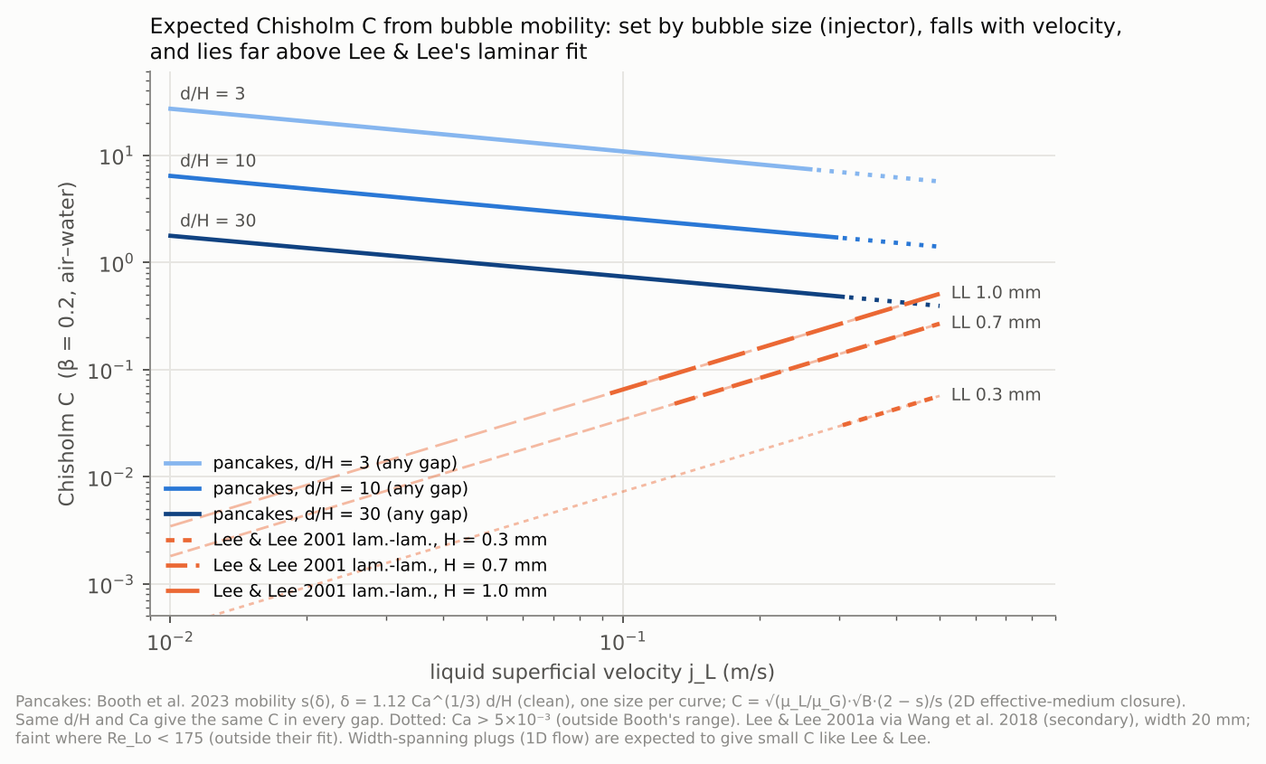
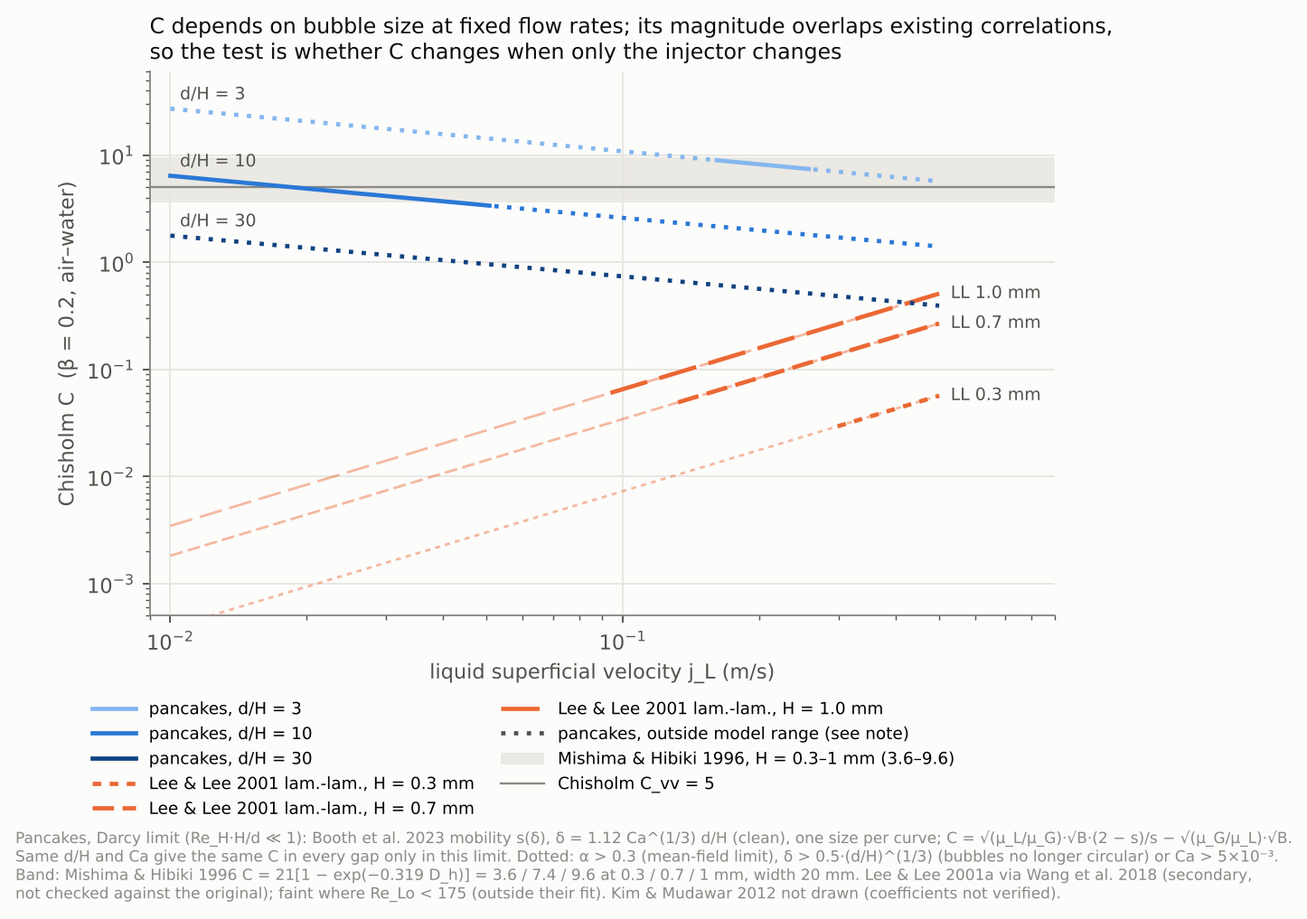
docs: 독립 검토 2 반영 마무리 — 그림 r7(적용 범위 밖 점선, Mishima–Hibiki·C_vv 띠, 제목), 초록 초안 8항목, README 핵심 결과, I54·설계 표·기록 정정
Claude-Session: https://claude.ai/code/session_01QFVWo3BPZ98Eh7jXYmYxkN

diff --git a/docs/research/fig/src/fig_c_mobility.py b/docs/research/fig/src/fig_c_mobility.py
@@ -5,6 +5,10 @@
 - 기체 보존 α = B/(B + s), U_m = j_L/(1 − α). E = B(2 − s)/s, C = √(μ_L/μ_G)·√B·(2 − s)/s − √(μ_G/μ_L)·√B.
 - Lee & Lee 2001a 층류-층류: C = 6.833e-8·λ^−1.317·ψ^0.719·Re_Lo^0.557, λ = μ²/(ρσD_h), ψ = μj_L/σ
   (Wang 외 2018 JATSR 표 1의 2차 인용. ψ의 j는 액체 겉보기 속도로 가정). 폭 20 mm 가정.
+- 독립 검토 2(review_2.md 5·6번) 반영: 점선 = 적용 범위 밖(α > 0.3 평균장 한계, δ > 0.5·(d/H)^(1/3) 원형 조건, Ca > 5×10⁻³).
+  D_h만 쓰는 상관식(Mishima & Hibiki 1996 C = 21[1 − exp(−0.319·D_h[mm])], 고전 C_vv = 5)을 띠로 함께 그린다
+  → C의 크기는 기존 상관식과 같은 자릿수라 판별력이 없고, 판별은 "같은 유량에서 크기를 바꾸면 C가 바뀌나"(I54)다.
+  Kim & Mudawar 2012는 원문 계수를 확인하지 못해 넣지 않았다.
 """
 import numpy as np
 import matplotlib
@@ -13,6 +17,7 @@ import matplotlib.pyplot as plt
 
 RAMP = {3: "#86b6ef", 10: "#2a78d6", 30: "#104281"}
 REF = "#eb6834"
+BAND = "#ebe9e3"
 INK, INK2, MUTED, GRID, SURF = "#0b0b0b", "#52514e", "#8a8986", "#e6e5e1", "#fcfcfb"
 plt.rcParams.update({"font.family": "DejaVu Sans", "font.size": 9.5, "axes.edgecolor": MUTED,
                      "axes.labelcolor": INK2, "xtick.color": INK2, "ytick.color": INK2,
@@ -39,9 +44,15 @@ def c_mobility(jl, dh_ratio):
     for _ in range(100):
         alpha = B / (B + s)
         ca = MU * jl / (1 - alpha) / SIG
-        s = booth_s(1.12 * ca ** (1 / 3) * dh_ratio)
+        delta = 1.12 * ca ** (1 / 3) * dh_ratio
+        s = booth_s(delta)
     c = np.sqrt(MU / MUG) * np.sqrt(B) * (2 - s) / s - np.sqrt(MUG / MU) * np.sqrt(B)
-    return c, ca
+    return c, ca, alpha, delta
+
+
+def c_mishima(h):
+    dh_mm = 2 * h * W / (h + W) * 1e3
+    return 21 * (1 - np.exp(-0.319 * dh_mm))
 
 
 def c_leelee(jl, h):
@@ -52,37 +63,51 @@ def c_leelee(jl, h):
     return 6.833e-8 * lam ** -1.317 * psi ** 0.719 * re ** 0.557, re
 
 
-jl = np.logspace(-2, np.log10(0.5), 120)
+jl = np.logspace(-2, np.log10(0.5), 160)
 fig, ax = plt.subplots(figsize=(7.6, 4.6))
+mh = [c_mishima(h) for h in (0.3e-3, 0.7e-3, 1.0e-3)]
+ax.axhspan(min(mh), max(mh), color=BAND, lw=0, zorder=0)
+ax.axhline(5.0, color=MUTED, lw=1, zorder=1)
 for dh_ratio, col in RAMP.items():
-    cc, ca = np.array([c_mobility(j, dh_ratio) for j in jl]).T
-    ok = ca <= 5e-3
-    ax.plot(jl[ok], cc[ok], color=col, lw=2, label=f"pancakes, d/H = {dh_ratio} (any gap)")
-    ax.plot(jl[~ok], cc[~ok], color=col, lw=2, ls=(0, (1, 2)))
+    cc, ca, al, de = np.array([c_mobility(j, dh_ratio) for j in jl]).T
+    ok = (ca <= 5e-3) & (al <= 0.3) & (de <= 0.5 * dh_ratio ** (1 / 3))
+    ax.plot(jl, np.where(ok, cc, np.nan), color=col, lw=2, label=f"pancakes, d/H = {dh_ratio}", zorder=3)
+    ax.plot(jl, np.where(ok, np.nan, cc), color=col, lw=2, ls=(0, (1, 2)), zorder=3)
     ax.text(0.0105, cc[0] * 1.12, f"d/H = {dh_ratio}", color=INK2, fontsize=8, va="bottom")
 for h, dash in ((0.3e-3, (0, (2, 2))), (0.7e-3, (0, (5, 2))), (1.0e-3, (0, (9, 3)))):
     cl, re = np.array([c_leelee(j, h) for j in jl]).T
     inside = re >= 175
-    ax.plot(jl, cl, color=REF, lw=1.2, ls=dash, alpha=0.45)
+    ax.plot(jl, cl, color=REF, lw=1.2, ls=dash, alpha=0.45, zorder=2)
     if inside.any():
-        ax.plot(jl[inside], cl[inside], color=REF, lw=2, ls=dash,
+        ax.plot(jl[inside], cl[inside], color=REF, lw=2, ls=dash, zorder=2,
                 label=f"Lee & Lee 2001 lam.-lam., H = {h * 1e3:.1f} mm")
     ax.text(jl[-1] * 1.06, cl[-1], f"LL {h * 1e3:.1f} mm", color=INK2, fontsize=8, va="center")
+ax.plot([], [], color=INK2, lw=2, ls=(0, (1, 2)), label="pancakes, outside model range (see note)")
+ax.fill_between([], [], color=BAND, lw=0, label=f"Mishima & Hibiki 1996, H = 0.3–1 mm ({min(mh):.1f}–{max(mh):.1f})")
+ax.plot([], [], color=MUTED, lw=1, label="Chisholm C_vv = 5")
 ax.set_xscale("log"); ax.set_yscale("log")
 ax.set_xlim(0.009, 0.9); ax.set_ylim(5e-4, 60)
 ax.grid(color=GRID, lw=0.8); ax.set_axisbelow(True)
 ax.set_xlabel("liquid superficial velocity j_L (m/s)")
 ax.set_ylabel("Chisholm C  (β = 0.2, air–water)")
-ax.legend(frameon=False, fontsize=8, loc="lower left")
-ax.set_title("Expected Chisholm C from bubble mobility: set by bubble size (injector), falls with velocity,\n"
-             "and lies far above Lee & Lee's laminar fit", fontsize=10, color=INK, loc="left")
-fig.text(0.01, -0.07, "Pancakes: Booth et al. 2023 mobility s(δ), δ = 1.12 Ca^(1/3) d/H (clean), one size per curve; "
-         "C = √(μ_L/μ_G)·√B·(2 − s)/s (2D effective-medium closure).\n"
-         "Same d/H and Ca give the same C in every gap. Dotted: Ca > 5×10⁻³ (outside Booth's range). "
-         "Lee & Lee 2001a via Wang et al. 2018 (secondary), width 20 mm;\nfaint where Re_Lo < 175 (outside their fit). "
-         "Width-spanning plugs (1D flow) are expected to give small C like Lee & Lee.", fontsize=7.2, color=MUTED)
+ax.legend(frameon=False, fontsize=7.8, loc="upper left", bbox_to_anchor=(-0.08, -0.13), ncol=2,
+          columnspacing=1.6, handlelength=2.6)
+ax.set_title("C depends on bubble size at fixed flow rates; its magnitude overlaps existing correlations,\n"
+             "so the test is whether C changes when only the injector changes", fontsize=10, color=INK, loc="left")
+fig.text(0.01, -0.29,
+         "Pancakes, Darcy limit (Re_H·H/d ≪ 1): Booth et al. 2023 mobility s(δ), δ = 1.12 Ca^(1/3) d/H (clean), one size per curve; "
+         "C = √(μ_L/μ_G)·√B·(2 − s)/s − √(μ_G/μ_L)·√B.\n"
+         "Same d/H and Ca give the same C in every gap only in this limit. Dotted: α > 0.3 (mean-field limit), δ > 0.5·(d/H)^(1/3) "
+         "(bubbles no longer circular) or Ca > 5×10⁻³.\n"
+         f"Band: Mishima & Hibiki 1996 C = 21[1 − exp(−0.319 D_h)] = {mh[0]:.1f} / {mh[1]:.1f} / {mh[2]:.1f} at 0.3 / 0.7 / 1 mm, width 20 mm. "
+         "Lee & Lee 2001a via Wang et al. 2018 (secondary,\nnot checked against the original); faint where Re_Lo < 175 (outside their fit). "
+         "Kim & Mudawar 2012 not drawn (coefficients not verified).", fontsize=7.2, color=MUTED)
 fig.savefig("/home/user/bubbles/docs/research/fig/fig_r7_chisholm_c_mobility.png", dpi=170, bbox_inches="tight")
 plt.close(fig)
 for h in (0.3e-3, 1e-3):
     for j in (0.02, 0.05, 0.1, 0.2):
-        print(f"H {h*1e3:.1f} jl {j}: " + ", ".join(f"d/H {d}: C {c_mobility(j, d)[0]:.2f}" for d in RAMP) + f", LeeLee {c_leelee(j, h)[0]:.3f}")
+        print(f"H {h*1e3:.1f} jl {j}: " + ", ".join(
+            "d/H {}: C {:.2f} a {:.2f} d/lim {:.2f}".format(d, *[v for k, v in enumerate(c_mobility(j, d)) if k in (0, 2)],
+                                                       c_mobility(j, d)[3] / d ** (1 / 3))
+            for d in RAMP) + f", LeeLee {c_leelee(j, h)[0]:.3f}")
+print("Mishima-Hibiki", [round(v, 2) for v in mh])

diff --git a/docs/research/abstract_drafts.md b/docs/research/abstract_drafts.md
@@ -1,44 +1,47 @@
 # 논문 초록 초안 (2026-10-24, 실험 전 가안)
 
 > 목적: 신규성 주장이 논문에서 어떻게 읽힐지 미리 본다. 숫자는 실험 뒤에 채울 빈칸([…])이다. 결과 문장은 모두 **예상**이며, 실험이 반대로 나오면 설계 12장의 시나리오 표대로 고쳐 쓴다.
-> 근거: 보고서 ①·④, 추정 5.4·5.5절, 설계 1·3·16·17·18장, 아이디어 I53·I54·I57·I58·I59·I61.
+> 근거: 보고서 ①·④, 추정 5.4·5.5절, 설계 1·3·16·17·18장, 아이디어 I53·I54·I57·I58·I59·I61·I65.
+> 2026-10-24 독립 검토 2(`review_2.md` 9·11번) 반영: "보인다" → "시험한다", 기본식은 2α/(1 − α) − B, 세 추정은 서로 독립이 아님, C 꼴은 폐합의 대수적 귀결(Chisholm 1967 선례), 3·7 mm는 "어디서 어떻게 깨지는지 그린다", 논문 2에 온도 조건과 Stefan 인자, 첫 문장의 근거 없는 주장 삭제.
 
 ## 논문 1 (단열): 영상 운동학으로 압력 강하를 맞춤 없이 예측
 
 **제목 후보**: Pressure drop of confined bubbly flow in narrow gaps predicted from imaged bubble kinematics without fitted coefficients
 
 **초록 (영문 초안)**
-Two-phase pressure-drop correlations for narrow rectangular channels fit a Chisholm-type parameter to flow rates and geometry, and their coefficients rarely transfer between facilities. We show that in the pancake-bubble regime the bubble-induced increase of the pressure drop follows from two kinematic quantities alone: the imaged area void fraction α and the gas-to-liquid flow ratio B. Treating gap-spanning bubbles as two-dimensional inclusions in Darcy flow gives φ_L² − 1 = B(2 − s̄)/s̄, where s̄ = B(1 − α)/α is the mean bubble mobility. The closure contains no bubble size, friction law, or fitted constant. We test it in horizontal channels with gaps of 0.3, 0.7 and 1 mm using deep-learning detection and tracking of [N] bubbles, together with differential pressure. Three independent estimates of s̄ — from the pressure transient after switching the gas on, from the imaged void fraction, and from tracked bubble velocities — agree within [X]% for Ca < [..] and Re_H·H/d < [..]. Changing only the injector changes the pressure drop at fixed flow rates by [X]%, yet all points fall on the same closure line, whereas a flow-rate-based Chisholm parameter would predict no change. The fitted Chisholm parameter therefore reflects bubble mobility, C ≈ (μ_L/μ_G)^{1/2} B^{1/2} (2 − s̄)/s̄. At 3 and 7 mm the closure fails in the way predicted by buoyancy (half-gap Bond number), which we map with the same imaging pipeline.
+Two-phase pressure-drop correlations for narrow rectangular channels fit a Chisholm-type parameter C to flow rates and geometry, so they carry no explicit information on bubble size or shape. We test whether, in the pancake-bubble regime, the bubble-induced increase of the pressure drop follows from two kinematic quantities alone: the imaged void fraction α and the gas-to-liquid flow ratio B. Treating gap-spanning, near-circular bubbles as two-dimensional inclusions in Darcy flow gives, for α ≲ 0.3, φ_L² − 1 = 2α/(1 − α) − B, equivalently B(2 − s̄)/s̄ with the mean bubble mobility s̄ = B(1 − α)/α. The closure contains no friction law or fitted constant; bubble size enters only through a geometric rim correction of order H/d. We test it in horizontal channels with gaps of 0.3, 0.7 and 1 mm using deep-learning detection and tracking of [N] bubbles, together with differential pressure. The void fraction implied by the pressure transient after switching the gas on agrees with the imaged one within [X]% (a test of the closure), and the gas flux carried by tracked bubbles agrees with the metered flow within [X]% (a test of gas conservation), for Ca < [..] and Re_H·H/d < [..]. Changing only the injector changes the pressure drop at fixed flow rates by [X]%, and we test whether all points remain on the same closure line; a flow-rate-based correlation has no term for this change. In Lockhart–Martinelli form the closure implies C = (μ_L/μ_G)^{1/2}B^{1/2}(2 − s̄)/s̄ − (μ_G/μ_L)^{1/2}B^{1/2}, a Hele-Shaw counterpart of the slip dependence in Chisholm's separated-flow theory, and one candidate reason why fitted C differs between facilities. At 3 and 7 mm, where bubbles no longer span the gap and inertia matters (Re_H·H/d up to about 10³), we map where and how the closure fails with the same imaging pipeline.
 
 **초록 (한국어)**
-좁은 직사각 유로의 이상류 압력 강하 상관식은 Chisholm 계수를 유량과 형상에 맞추며, 그 계수는 장치가 바뀌면 잘 맞지 않는다. 우리는 팬케이크 기포 영역에서 기포에 의한 압력 강하 증가분이 영상 기공률 α와 기체/액체 유량비 B 두 가지 운동학 양만으로 정해짐을 보인다. 갭을 채운 기포를 Darcy 흐름 속 2차원 포함물로 보면 φ_L² − 1 = B(2 − s̄)/s̄이고, s̄ = B(1 − α)/α는 평균 기포 이동도다. 이 식에는 기포 크기, 마찰 법칙, 맞춘 상수가 없다. 0.3·0.7·1 mm 수평 유로에서 딥러닝 검출·추적([N]개 기포)과 차압으로 시험한다. 평균 이동도를 세 가지(기체를 켤 때의 압력 과도, 영상 기공률, 추적 속도)로 재면 Ca < [..], Re_H·H/d < [..]에서 [X]% 안에서 일치한다. 주입기만 바꾸면 같은 유량에서 압력 강하가 [X]% 달라지지만 모든 점이 같은 폐합 선에 놓인다. 유량만 쓰는 Chisholm 계수는 이 차이를 예측하지 못한다. 그래서 맞춘 Chisholm 계수는 기포 이동도를 반영한다: C ≈ (μ_L/μ_G)^{1/2} B^{1/2} (2 − s̄)/s̄. 3·7 mm에서는 부력(반높이 Bond 수)이 예측하는 방식으로 폐합이 깨지며, 같은 영상 처리로 그 경계를 그린다.
+좁은 직사각 유로의 이상류 압력 강하 상관식은 Chisholm 계수 C를 유량과 형상에 맞추므로, 기포 크기나 모양에 대한 정보를 직접 담지 않는다. 우리는 팬케이크 기포 영역에서 기포에 의한 압력 강하 증가분이 영상 기공률 α와 기체/액체 유량비 B 두 가지 운동학 양만으로 정해지는지 시험한다. 갭을 채운 원에 가까운 기포를 Darcy 흐름 속 2차원 포함물로 보면 α ≲ 0.3에서 φ_L² − 1 = 2α/(1 − α) − B이고, 같은 식을 평균 기포 이동도 s̄ = B(1 − α)/α로 쓰면 B(2 − s̄)/s̄다. 이 식에는 마찰 법칙과 맞춘 상수가 없고, 기포 크기는 H/d 차수의 가장자리 기하 보정으로만 들어간다. 0.3·0.7·1 mm 수평 유로에서 딥러닝 검출·추적([N]개 기포)과 차압으로 시험한다. 기체를 켤 때의 압력 과도가 말하는 기공률은 영상 기공률과 [X]% 안에서 일치하고(폐합의 시험), 추적한 기포가 나르는 기체 유량은 유량계 값과 [X]% 안에서 일치한다(기체 보존의 시험). 범위는 Ca < [..], Re_H·H/d < [..]다. 주입기만 바꾸면 같은 유량에서 압력 강하가 [X]% 달라지고, 모든 점이 같은 폐합 선에 남는지 시험한다. 유량만 쓰는 상관식에는 이 변화를 나타낼 항이 없다. Lockhart–Martinelli 꼴로 쓰면 폐합에서 C = (μ_L/μ_G)^{1/2}B^{1/2}(2 − s̄)/s̄ − (μ_G/μ_L)^{1/2}B^{1/2}가 나온다. 이것은 Chisholm 분리류 이론의 미끄럼 의존을 Hele-Shaw 기포류에 맞게 다시 쓴 꼴이며, 장치마다 맞춘 C가 다른 이유의 후보 하나다. 기포가 갭을 채우지 않고 관성이 커지는(Re_H·H/d 최대 약 10³) 3·7 mm에서는 같은 영상 처리로 폐합이 어디서 어떻게 깨지는지 그린다.
 
 **기여 (심사자가 볼 순서)**
-1. 맞춘 상수 없는 폐합과 그 시험(속도 없이 α·B만으로도, 추적이 있으면 더 강하게).
-2. 압력만으로 평균 기포 이동도를 재는 방법(기체 계단 응답), 유량계 없이 B를 재는 방법(켜는 순간의 계단).
-3. Chisholm 계수의 물리적 해석과, 주입기를 바꾸는 반증 실험.
+1. 맞춘 상수 없는 폐합과 그 시험(원형·α ≲ 0.3·Darcy 범위 안. 속도 없이 α·B만으로도, 추적이 있으면 더 강하게).
+2. 기체 계단 응답: 켜는 순간의 계단으로 유량계 없이 β(0.3·0.7 mm에서 정밀), 과도로 압력이 말하는 기공률 α_P(폐합 가정).
+3. Chisholm 1967의 미끄럼 의존을 Hele-Shaw 기포류에 맞게 쓴 꼴(E/B = (2 − s̄)/s̄)과, 주입기를 바꾸는 반증 실험.
 4. 검출·추적 오차(사람 감사, 기체 보존)를 결론까지 전파.
 
 **미리 정해 둘 약점과 답**
-- "유효 매질 식은 고전 이론이다" → 맞다. 새 것은 기액 흐름에서의 맞춤 없는 시험, 압력으로 재는 이동도, C의 해석이다.
+- "유효 매질 식은 고전 이론이다" → 맞다. C와 미끄럼의 연결도 Chisholm 1967에 있다. 새 것은 기액 흐름에서의 맞춤 없는 시험, 압력으로 재는 기공률·이동도, 주입기 바꾸기로 하는 크기 의존 시험이다.
+- "범용 상관식(예: Kim & Mudawar 2012)은 여러 자료를 평균 오차 약 20%대로 맞춘다고 한다(원문 수치 확인 필요)" → 모델의 C도 기존 상관식과 같은 자릿수다(그림 r7). 우리 주장은 정확도 경쟁이 아니라 "같은 유량에서 크기를 바꾸면 ΔP가 바뀌는가"다. 유량만 쓰는 상관식은 이 질문에 답하지 못한다.
 - "0.3 mm만 맞고 1 mm는 어긋난다" → 성립 범위를 Re_H·H/d로 그리는 것이 결과다(시나리오 S5).
-- "영상 기공률의 윤곽 규약" → 합체 면적 수지와 기체 보존으로 교정, 오차 전파.
+- "영상 기공률의 윤곽 규약" → 합체 면적 수지와 기체 보존으로 교정, 오차 전파. 작은 기포 경로와 주 경로의 윤곽 전환(면적 ×1.5~1.9)은 E로 0.05~0.1 차이를 낼 수 있으므로 따로 보정한다(보고서 5.4 점검 3단계).
 
 ## 논문 2 (가열): 갭에 따른 공기 주입 열전달을 접촉·갱신·증발로 설명
 
 **제목 후보**: Gap-dependent heat transfer of air-injected flow in narrow channels over an opaque heated wall: contact, renewal and evaporation resolved by image-informed inverse conduction
 
 **초록 (영문 초안)**
-Air injection can raise or lower heat transfer in narrow channels, and image-based correlations have so far been fitted for single channels. We heat a steel wall below horizontal gaps of [0.3–7] mm, inject air, and image the flow from above through the cover. An image-informed inverse conduction method uses the bubble footprint and the time since the last bubble passage at every pixel as the spatial pattern of the boundary condition, so that a few coefficients — liquid renewal and footprint conductance — are fitted to all embedded thermocouples at once. The footprint conductance exceeds gas conduction already at [50] °C and rises to [..] kW/m²K at [90] °C, following the slope of the saturation vapour pressure as expected for vapour diffusion inside the bubbles, and the evaporation inferred from the pressure closure agrees with the bubble-volume budget within [X]%. The ratio of two-phase to single-phase heat transfer collapses on the contact fraction and a renewal Fourier number, h_TP/h_1φ ≈ (1 − φ_c)·max[1, 0.42·Fo^{-1/2}], predicting a gap left out of the fit within [X]%. Heat transfer drops below the single-phase value at 0.3 mm and low passage frequency, and is enhanced at 1 mm.
+Air injection can raise or lower heat transfer in narrow channels, and image-based correlations have so far been fitted for single channels. We heat a steel wall below horizontal gaps of [0.3–7] mm, inject air, and image the flow from above through the cover. An image-informed inverse conduction method uses the bubble footprint and the time since the last bubble passage at every pixel as the spatial pattern of the boundary condition, so that a few coefficients — liquid renewal and footprint conductance — are fitted to all embedded thermocouples at once. The footprint conductance exceeds gas conduction already at [50] °C and rises to [..] kW/m²K at [90] °C, following (dp_sat/dT)·P/(P − p_v) as expected for Stefan-enhanced vapour diffusion inside the bubbles. In near-isothermal runs with preheated liquid and gas, the vapour added to the bubbles, inferred from the pressure closure as B_eff/B_in, agrees with the bubble-volume budget within [X]% at 90 °C. The ratio of two-phase to single-phase heat transfer collapses on the contact fraction, a renewal Fourier number and the footprint-to-liquid conductance ratio, h_TP/h_1φ ≈ (1 − φ_c)·max[1, 0.42·Fo^{-1/2}] + φ_c·r_b(T), predicting a gap left out of the fit within [X]%. Below about 50 °C, heat transfer drops below the single-phase value at 0.3 mm and low passage frequency; above about 80 °C the footprints conduct better than the liquid in every gap.
 
 **초록 (한국어)**
-공기를 넣으면 좁은 유로의 열전달이 오르기도 내리기도 하며, 영상 기반 상관식은 지금까지 채널 하나에 맞춘 것이었다. 우리는 수평 갭 [0.3~7] mm의 아래 철 벽을 가열하고 공기를 넣어 위 덮개 너머로 촬영한다. 영상 정보 역열전도는 화소마다 기포 발자국과 마지막 기포가 지나간 뒤의 시간을 경계조건의 공간 모양으로 쓰므로, 몇 개의 계수(액체 갱신, 발자국 전도)만 모든 매립 열전대에 함께 맞춘다. 발자국 전도는 [50] °C에서 이미 기체 전도보다 크고 [90] °C에서 [..] kW/m²K까지 커지며, 포화 증기압 기울기를 따르는 모양이 기포 속 수증기 확산과 맞는다. 압력 폐합으로 추정한 증발량은 기포 부피 수지와 [X]% 안에서 일치한다. 이상/단상 열전달 비는 접촉 비율과 갱신 Fourier 수로 모이고(h_TP/h_1φ ≈ (1 − φ_c)·max[1, 0.42·Fo^{-1/2}]), 맞춤에서 뺀 갭을 [X]% 안에서 예측한다. 0.3 mm 저빈도에서는 단상보다 낮아지고, 1 mm에서는 강화된다.
+공기를 넣으면 좁은 유로의 열전달이 오르기도 내리기도 하며, 영상 기반 상관식은 지금까지 채널 하나에 맞춘 것이었다. 우리는 수평 갭 [0.3~7] mm의 아래 철 벽을 가열하고 공기를 넣어 위 덮개 너머로 촬영한다. 영상 정보 역열전도는 화소마다 기포 발자국과 마지막 기포가 지나간 뒤의 시간을 경계조건의 공간 모양으로 쓰므로, 몇 개의 계수(액체 갱신, 발자국 전도)만 모든 매립 열전대에 함께 맞춘다. 발자국 전도는 [50] °C에서 이미 기체 전도보다 크고 [90] °C에서 [..] kW/m²K까지 커지며, (dp_sat/dT)·P/(P − p_v)를 따르는 모양이 Stefan 흐름이 더해진 기포 속 수증기 확산과 맞는다. 액체와 기체를 미리 데운 거의 등온 운전에서, 압력 폐합으로 추정한 증기 몫(B_eff/B_in)은 90 °C에서 기포 부피 수지와 [X]% 안에서 일치한다. 이상/단상 열전달 비는 접촉 비율, 갱신 Fourier 수, 발자국/액체 전도 비로 모이고(h_TP/h_1φ ≈ (1 − φ_c)·max[1, 0.42·Fo^{-1/2}] + φ_c·r_b(T)), 맞춤에서 뺀 갭을 [X]% 안에서 예측한다. 약 50 °C 이하에서는 0.3 mm 저빈도에서 단상보다 낮아지고, 약 80 °C 이상에서는 모든 갭에서 발자국이 액체보다 잘 전도한다.
 
 **기여**
 1. 불투명 금속 가열면에서 영상으로 경계조건 모양을 정하는 역열전도(I59).
-2. 공기 주입의 숨은 항(기체 부피 변화, 잠열, 기포 속 열관)을 두 독립 추정(압력·영상)으로 정량(I29, I47, I57).
-3. 갭 하나 빼기로 시험한 물리 모델(I7).
+2. 공기 주입의 숨은 항(기체 부피 변화, 잠열, 기포 속 열관)을 두 추정(압력 폐합의 B_eff/B_in, 영상 부피 수지)으로 정량(I29, I47, I57). 둘 다 영상 α를 쓰므로 완전히 독립은 아니다. 70 °C는 약 2σ(α 오차가 지배), 90 °C는 B_in ≈ 0.1로 잡으면 뚜렷하다.
+3. 갭 하나 빼기로 시험한 물리 모델(I7, I65). 발자국/액체 전도 비 r_b(T)는 갭과 무관하고(둘 다 1/H에 비례) 약 75~80 °C에서 1을 넘는다(그림 r8).
 
 **미리 정해 둘 약점과 답**
 - "영상 → 열전달은 이미 있다(Huang 2024 등)" → 그들은 채널 하나·비등·회귀다. 우리는 갭 여러 개·비등 없음·물리 모델·역열전도다.
 - "증발이 작으면?" → 50 °C 이하 결과만으로도 접촉·갱신 모델이 선다. 증발은 70 °C 이상의 추가 결과로 둔다.
+- "가열 운전의 ΔP 차이는 점성 변화 때문 아니냐" → 기포가 벽 온도를 1 K 바꿀 때 마찰이 약 0.5~0.9% 바뀌어 E로 0.005~0.03이 된다(판별력과 같은 크기). 그래서 증발 판정은 거의 등온 운전으로 한다.

diff --git a/docs/research/README.md b/docs/research/README.md
@@ -14,14 +14,17 @@
    - 비어 있는 곳: **영상 운동학으로 압력 강하를 맞춤 없이 예측**하는 것(논문 1), 그리고 그 갭 범위에서 ΔP·h·추적 통계를 함께 잰 자료.
 2. **논문 1의 식(팬케이크 영역)**
    - E = φ_L² − 1 = 2α/(1 − α) − β/(1 − β) = B·(2 − s̄)/s̄. 여기서 B = j_G/j_L, s̄ = B(1 − α)/α(평균 기포 이동도).
-   - 크기 분포·마찰 기구가 들어가지 않는다. 기포가 멈춰 벽에 붙어도 성립한다.
-   - Lockhart–Martinelli로 쓰면 C ≈ 7.45·√B·(2 − s̄)/s̄ → Chisholm C는 기포 이동도로 정해지고, 주입기마다 다르다.
+   - 마찰 기구와 맞춘 상수가 들어가지 않는다. 크기는 기포 가장자리 쐐기 보정(β_f ≈ β/(1 − 0.43H/d))으로만 들어간다. 원형·α ≲ 0.3·Darcy(Re_H·H/d ≪ 1) 범위의 식이다.
+   - 고립된 멈춘 기포는 섞여 있어도 성립한다. 기체가 멈춘 통로로 흐르면(채널링) E = 2α/(1 − α)로 B만큼 커진다 → 그 차로 채널링을 판별한다.
+   - Lockhart–Martinelli로 쓰면 C ≈ 7.45·√B·(2 − s̄)/s̄. C가 미끄럼에 달렸다는 생각은 Chisholm 1967 분리류 이론에 이미 있다. C의 크기는 기존 상관식(Mishima–Hibiki 3.6~9.6, C_vv 5)과 같은 자릿수라 판별력이 없다 → 판별은 주입기만 바꿀 때 C(또는 E/B = (2 − s̄)/s̄)가 바뀌는지다(그림 r7).
    - 거대 기포 영역은 1차원 폐합(액체 덩어리 마찰 + 앞뒤 메니스커스 항). Fujita 1995 자료의 경향 세 가지와 부호가 맞는다.
 3. **값싼 보강 시험(설계 16장)**
-   - 기체 계단 응답: 켜는 순간 ΔP가 ΔP_L/(1 − β)로 뛴다 → 유량계 없이 β(0.3·0.7 mm에서 쓸 만한 정밀도). 기포가 혼합 속도보다 빠르면(s̄ > 1) 켤 때 넘치고 끌 때 단상 값 아래로 내려간다. 느리면 단조, 크기가 섞이면 비단조. 넘침 여부는 크기·Ca·오염이 함께 정한다.
+   - 기체 계단 응답: 켜는 순간 ΔP가 ΔP_L/(1 − β)로 뛴다 → 유량계 없이 β(정밀도 0.3 mm 1.4%, 0.7 mm 7%, 1 mm 15%). 기포가 혼합 속도보다 빠르면(s̄ > 1) 켤 때 넘치고 끌 때 단상 값 아래로 내려간다. 느리면 단조, 크기가 섞이면 비단조. 넘침은 s̄ > 1인지만 알려 주고 오염 진단은 안 된다(크기·Ca가 크게 정함).
+   - 압력이 말하는 기공률 α_P = 1 − 2ΔP_L/(ΔP_on + ΔP_ss)를 영상 α와 바로 비교한다(폐합 시험). 압력 쪽 이동도가 영상 쪽보다 정밀한 것은 β ≳ 0.11일 때뿐이다.
    - 주입기 바꾸기: 같은 유량에서 ΔP는 달라도 한 1:1 선에 겹쳐야 한다(가장 강한 반증 시험). 크기에 따른 쐐기 보정(β_f)이 필수다.
 4. **논문 2(가열)**
-   - 공기 기포로의 증발(기체 부피 1.26/1.69/4.0배, 50/70/90 °C)과 기포 속 열관(1 mm에서 0.3~4 kW/m²K)을 빼면 h 해석이 틀린다.
+   - 공기 기포로의 증발(기체 부피 1.26/1.69/4.0배, 50/70/90 °C)과 기포 속 열관(1/H에 비례: 1 mm 0.3~4, 0.3 mm 약 1.1/3.2/14 kW/m²K)을 빼면 h 해석이 틀린다.
+   - 폐합으로 증발을 재는 것(B_eff/B_in = 부피 배수)은 α 오차가 지배한다: 70 °C 약 2σ, 90 °C는 B_in ≈ 0.1로 잡으면 뚜렷. 기포가 벽 온도를 바꿔 생기는 점성 교란이 같은 크기라 거의 등온 운전(미리 데운 액체·기체)으로 따로 잰다.
    - 영상이 경계조건의 모양을, 열전대가 크기를 정하는 역열전도(I59).
    - 열적 유효 매질: h_TP/h_1φ ≈ (1 − φ_c)·max[1, 0.42·Fo^(−1/2)] + φ_c·r_b(T).
    - r_b(발자국 열관 전도 ÷ 단상 h)는 갭과 무관하고 온도로만 정해진다 → 저빈도에서 공기 주입의 득실이 약 75~80 °C에서 뒤집힌다(그림 r8, I65).
@@ -38,15 +41,16 @@
 | `../research_microgap_paper.md` | 보고서 ①~⑥(결론, 유사 논문, 아이디어 평가, 논문 구성, 실험 조건, 질문) |
 | `design_predictions.md` | 실험 A~J별 가설·식·설계·예상 결과·반증, 시나리오 표, 논문 1·2 실행 순서(17·18장) |
 | `estimates_microgap.md` | 크기 추정. 5.4절 유효 매질 폐합(+ L–M 연결), 5.5절 거대 기포 1차원 폐합, 14장 유량 정밀도 |
-| `idea_log.md` | 아이디어 I1~I60(착안·식·설계·예상·반증·비용) |
+| `idea_log.md` | 아이디어 I1~I72(착안·식·설계·예상·반증·비용, 점검·검토 정정 포함) |
 | `idea_checks.md`, `idea_checks_2.md`, `idea_checks_3.md` | 서브 에이전트의 신규성·물리 점검 |
+| `review_2.md` | 독립 검토 2(식·숫자·과장 점검 16건). 첫 검토 16건은 파일 없이 각 문서에 바로 반영했다 |
 | `novelty_analysis.md`, `lit_7_closest_novelty.md` | 신규성 분석, 가장 가까운 선행 |
 | `lit_1`~`lit_8` | 주제별 문헌 조사(단열 갭, 비등, 압력 강하, 열전달, AI 영상, 계측, 신규성, 합체) |
 | `microgap_data_catalog.md` | 겹쳐 그릴 수 있는 문헌 자료와 공개 데이터셋 |
 | `reading_list.md` | 먼저 읽을 논문(무료 원문 위치 포함), 공개 데이터 |
 | `abstract_drafts.md` | 논문 1·2 초록 초안(실험 전 가안, 숫자는 빈칸) |
 | `data_paper_plan.md` | 데이터 논문 설계(담을 것, 지금 CSV로 바로 계산되는 양, 분할·과제, 용량) |
-| `fig/`, `fig/src/` | 그림 r1~r6과 생성 스크립트 |
+| `fig/`, `fig/src/` | 그림 r1~r8과 생성 스크립트 |
 | `../refs_microgap.bib`, `refs_check.tsv`, `make_bib.py` | 참고문헌(Crossref·DataCite·doi.org 대조) |
 | `PROGRESS.md` | 작업 기록, 비용 규칙, 접속 상태 |
 

diff --git a/docs/research/design_predictions.md b/docs/research/design_predictions.md
@@ -191,9 +191,9 @@
 ## 11. 갭별 예상 요약 [예상]
 | 갭 | 단열 양식 | 압력 강하 증가분 | 이동도 | 공기 주입 열전달 | 주의 | 새 예측 (2026-10-24) |
 |---|---|---|---|---|---|---|
-| 0.3 mm | 저유량 팬케이크, 일찍 거대 기포 | 작은 기포가 많으면 큼, Darcy에 가장 가까움 | 낮음(Ca 작음) | 거의 그대로이거나 오히려 낮아질 수 있음 | 기체 팽창, 저유량 유량계, 갭 오차 | 계단 응답으로 B·s̄를 압력만으로(I58·I61). 맞춘 C ≈ 1~25(크기에 따라), Lee & Lee의 100배 이상(그림 r7). 열관 h_b가 1 mm의 약 3배 |
+| 0.3 mm | 저유량 팬케이크, 일찍 거대 기포 | 작은 기포가 많으면 큼, Darcy에 가장 가까움 | 낮음(Ca 작음) | 거의 그대로이거나 오히려 낮아질 수 있음 | 기체 팽창, 저유량 유량계, 갭 오차 | 계단 응답으로 B·s̄를 압력만으로(I58·I61). 맞춘 C는 크기에 따라 0.5~20(그림 r7. 원형·평균장 범위 안은 d/H 10 저유속의 3~6과 d/H 3·j_L 0.15~0.26의 7~9뿐). 크기는 기존 상관식(Mishima–Hibiki 3.6~9.6, C_vv 5)과 같은 자릿수라, 판별은 C의 크기가 아니라 주입기를 바꿀 때 C가 바뀌는지(I54)다(독립 검토 2). 열관 h_b가 1 mm의 약 3배 |
 | 0.7 mm | 0.3 mm와 비슷 | 중간 | 중간 | 약간 강화 | 관성 시작 | 막 간섭 무늬가 보이는 경계(I52) |
-| 1 mm | 팬케이크 → 거대 기포 | 폐합 A는 유지, 경로 B는 고유속에서 벗어남 | 큰 기포는 2에 가까움 | 갱신 효과로 몇 배 강화 가능 | 철 영상의 대비 해석(실험 H) | 멈춘 기포의 막 파열·채널링 가능(Kumagai 2008, I56), 폐합 식은 유지 |
+| 1 mm | 팬케이크 → 거대 기포 | 폐합 A는 유지, 경로 B는 고유속에서 벗어남 | 큰 기포는 2에 가까움 | 갱신 효과로 몇 배 강화 가능 | 철 영상의 대비 해석(실험 H) | 멈춘 기포의 막 파열·채널링 가능(Kumagai 2008, I56). 고립된 멈춘 기포면 폐합 식 유지, 기체가 멈춘 통로로 흐르면 E = 2α/(1 − α)(차 = B로 판별) |
 | 3 mm | 큰 기포만 갭을 채움, 작은 기포는 뜸 | 작아짐 | 두 가지(뜬 기포/팬케이크) | 중간 | 바닥 막이 두꺼움(Bo_b 0.3) | 뜬 작은 기포의 끌림 항 E_f ≈ 0.5·K·α_f·(H/d)²·(Δu/U)를 더해야 폐합이 맞음(I62). 큰 기포가 안정(Kumagai: 갭 ≈ 기포 두께) |
 | 7 mm | 덮개 밑에 뜬 기포, 고유량에서 덮개 밑 웅덩이·층상 | 작은 뜬 기포는 거의 없음. 웅덩이는 장애물 효과로 클 수 있음(13장) | 부력 지배 | 작은 강화(액층 얇아짐) | 압력 측정 정밀도, 기울기, 입출구 손실 | 층상 극한 φ_L² ≈ (H/h_l)³/4(깨끗)~(H/h_l)³(굳음) ≈ 5~20(I63), 얇은 기체층이면 < 1. 웅덩이 효과는 관성 손실이라 E가 j와 함께 커짐(팬케이크와 반대, I66). 웅덩이가 전단으로 쪼개져 d_95 ∝ j^(−2)(I55) |
 

diff --git a/docs/research/PROGRESS.md b/docs/research/PROGRESS.md
@@ -98,7 +98,7 @@
 - 2026-10-24 00:05 UTC: 데이터 목록 에이전트 완료. **신규성 문구 정정 필요**: Kumagai, Okuyama & Iguchi 2008(J. JSEM, 수평 폭 50 mm, 갭 0.5/1/2/5/10 mm, 공기-물, 위 촬영, 양식 지도)이 "다중 갭이 Co = 1과 2Lc를 함께 넘는 강제 흐름 연구는 없다"를 반박 → "ΔP·h·영상 통계를 함께 잰 연구는 없다"로 좁힌다. Fujita 외 1995(수평 폭 10 mm, 갭 0.2~2.0 mm, 기공률·ΔP)는 유효 매질 폐합의 첫 문헌 시험 후보.
 - 2026-10-24 00:12 UTC: 데이터 목록 통합 완료. Fujita 1995·Kumagai 2008 원문(J-STAGE 공개) 읽음.
   - Fujita 1995: ΔP 그림은 0.2/1.2/2.0 mm만(0.7 mm는 α만). 폭 10 mm라 기포가 폭을 채우는 1차원 흐름 → 거대 기포 폐합(설계 3장)의 경향 3개(σ 작으면 ΔP 작음, 그 효과는 갭이 클수록 큼, C가 갭과 함께 커짐)와 부호가 맞음. 기공률(정전용량)이 V_b = 1.2j와 기체 보존으로 어긋남(그림 판독 1.5~3배) → 같은 영상에서 α·V_b·β_f를 함께 재는 방법의 근거.
-  - Kumagai 2008: 1 mm 아크릴에서 멈춘 기포의 막 파열·채널링. α·β 폐합은 멈춘 기포에도 성립(기체 보존이 속도 분포를 없앰) → 설계 13장.
+  - Kumagai 2008: 1 mm 아크릴에서 멈춘 기포의 막 파열·채널링. α·β 폐합은 멈춘 기포에도 성립(기체 보존이 속도 분포를 없앰) → 설계 13장. (독립 검토 2로 정정: 고립된 멈춘 기포일 때만. 기체가 멈춘 통로로 흐르면 E = 2α/(1 − α))
   - make_bib: doi.org 내용 협상(JaLC 등) 대체 조회, 저자 비교에서 ß·아포스트로피 처리, 데이터셋 DOI 41개를 doi 칸으로 옮김. DOI 609개 중 OK 608, FAIL 1(기존 중국 학술지).
 - 2026-10-24 00:15~00:30 UTC: 아이디어 묶음 6(I51~I58)·7(I59·I60), 설계 16장(기체 계단 응답·주입기 바꾸기), 그림 r6(계단 응답 장난감 모델).
   - 새 예측: 깨끗한 팬케이크(s̄ > 1)는 기체를 켤 때 ΔP가 넘치고(1/(1 − β) 계단 뒤 감소), 끌 때 단상 값 아래로 내려갔다가 회복한다. 오염(s̄ < 1)은 둘 다 단조. 켤 때 계단으로 유량계 없이 β(I58).

diff --git a/docs/research/idea_log.md b/docs/research/idea_log.md
@@ -425,6 +425,7 @@
   - 선례: Bernard & Jacobs 1965(SPE J) — 다공 매질에서 같은 포화도면 거품이 있든 없든 물 투과도가 같다. "기체 구조는 기공률로만 들어간다"는 같은 형태다. 반대로 1차원 미세관 Taylor 흐름은 기포 수에 따라 ΔP가 변한다(Fuerstman 2007) → "2차원은 크기 무관, 1차원은 크기 의존"이 논문 문장이 된다.
   - 신호: 묽으면 E ≈ β(2 − s)/s. β 0.05에서 s 0.5 대 1.2면 E 0.15 대 0.033 → 0.3 mm에서 ΔP 차 약 80 Pa(확실히 보임).
 
+- **독립 검토 2 정정**: "이유를 직접 보인다"는 시험 전 과장이다 → "장치마다 C가 다른 이유의 후보 하나를 시험한다". C가 미끄럼에 달렸다는 생각은 Chisholm 1967(분리류 이론)에 이미 있고, 새 것은 Hele-Shaw 꼴(2 − s̄)/s̄, Booth 식을 거친 크기 의존, 주입기 바꾸기 시험이다. C의 크기는 기존 상관식(Mishima–Hibiki 3.6~9.6, C_vv 5)과 같은 자릿수라(그림 r7) 판별은 "같은 유량에서 C가 바뀌는가"로만 한다. 그림은 E/B 대 s̄로 그린다(C 대 s̄는 B마다 다른 곡선).
 ### I55. 7 mm 덮개 밑 웅덩이의 분열 기준
 - **착안**: Kumagai 2008(수평 0.5~10 mm)은 갭이 위 판 밑 기포 두께보다 크면 기포가 쪼개진다고 봤다. 7 mm에서 웅덩이 밑 액층은 빠르게 흐르므로 관성으로 쪼개진다. 3 mm에서는 큰 기포가 갭을 채워 밑으로 빠른 액층이 없다.
 - **식(골격)** [추정, 계수 미정]: 웅덩이 두께 e ≈ 2Lc·sin(θg/2)(아크릴 θw 71°면 약 4.4 mm). 밑 액층 속도 U_l ≲ j·H/(H − e)(옆으로 돌아가면 더 작음). 최대 웅덩이 크기 d_max ≈ We_c·σ/(ρU_l²), We_c = O(1~10).
